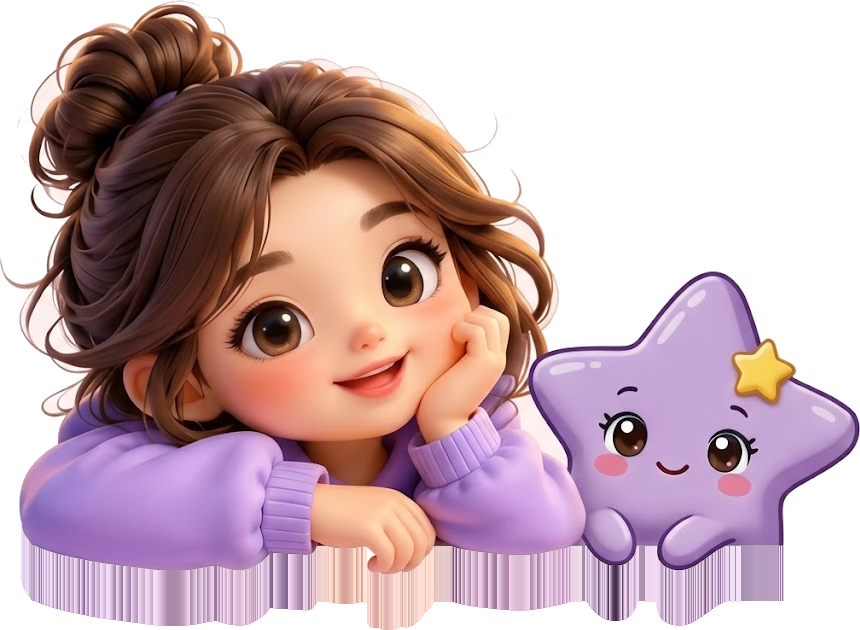
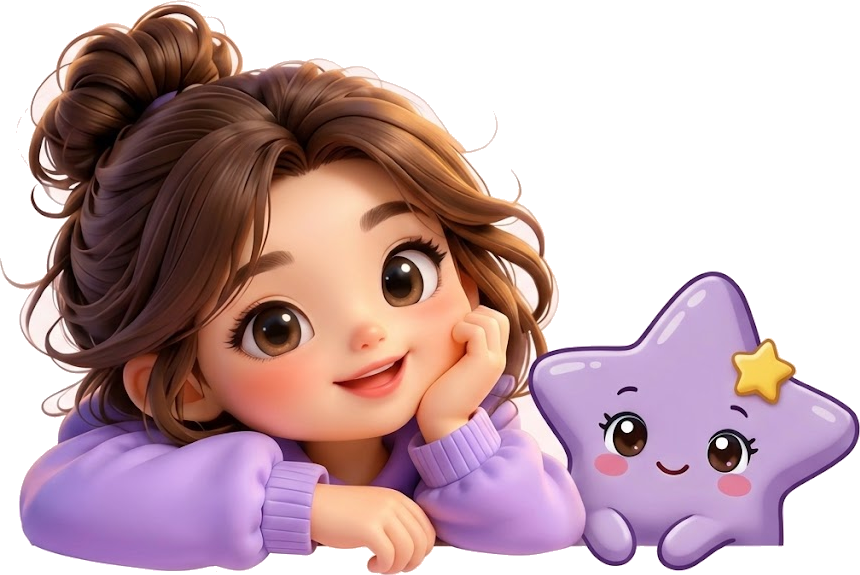
feat(v1.56.0): correccion definitiva de apoyo en login sin artefactos y ajuste de lomo de panel

diff --git a/src/index.css b/src/index.css
@@ -624,17 +624,17 @@ body[data-color-theme="zen"] {
 .characters-stage {
   position: relative;
   width: 100%;
-  height: 215px;
+  height: 200px;
   display: flex;
   justify-content: center;
   align-items: flex-end;
-  margin-top: 0;
+  margin-top: 2px;
   z-index: 3;
 }
 
 .characters-stage img {
-  width: 98%;
-  max-width: 365px;
+  width: auto;
+  max-width: 92%;
   height: 100%;
   object-fit: contain;
   object-position: center bottom;
@@ -644,11 +644,11 @@ body[data-color-theme="zen"] {
 
 .form-panel {
   background: linear-gradient(180deg, #fdf3f4 0%, #f5e4e8 100%);
-  border-radius: 34px;
+  border-radius: 32px;
   padding: 18px 22px 18px;
   position: relative;
   z-index: 4;
-  margin-top: -26px;
+  margin-top: -18px;
   box-shadow: 
     0 -6px 14px rgba(120, 85, 150, 0.10),
     inset 0 5px 8px rgba(255, 255, 255, 0.95),

diff --git a/HISTORIAL_DE_CAMBIOS.md b/HISTORIAL_DE_CAMBIOS.md
@@ -17,6 +17,14 @@ Cualquier funcionalidad registrada aquí está blindada: ninguna IA puede elimin
 
 ## 📦 REGISTRO DE ENTREGAS Y MÓDULOS
 
+### Versión 1.56.0 - Corrección Definitiva de Apoyo en Login: Eliminación de Líneas y Calibración
+- [x] **Regeneración de PNG Limpio Sin Extrusión ([`login-3d-girl-star.png`](file:///c:/Users/User/Desktop/GeoSoft/CUENTA%20ANDERSJIVAL/CLIENTES%20WEBS/BYFIO/public/assets/login-3d-girl-star.png)):**
+  - Eliminadas las líneas verticales/artefactos inferiores generados por el pixel-stretching anterior.
+  - Recorte exacto y limpio sobre el borde real de los personajes (860 x 575 px) con canal alfa 100% transparente en todo el contorno.
+- [x] **Alineación Continua Sobre el Panel Acolchado ([`src/index.css`](file:///c:/Users/User/Desktop/GeoSoft/CUENTA%20ANDERSJIVAL/CLIENTES%20WEBS/BYFIO/src/index.css)):**
+  - Calibrado `.characters-stage` a 200px de alto (`width: auto; max-width: 92%`), ubicando los codos de la niña y el cuerpo de la estrella enteramente dentro del tramo horizontal del panel.
+  - Solapamiento de `.form-panel` ajustado a `margin-top: -18px` y radio a 32px, permitiendo que la parte inferior de los personajes quede suavemente oculta tras el lomo del formulario, luciendo 100% apoyados de forma natural y sin cortes.
+
 ### Versión 1.55.0 - Switches de Activación de Sonido en Panel de Administración
 - [x] **Gestión Centralizada de Audio ([`AppContext.tsx`](file:///c:/Users/User/Desktop/GeoSoft/CUENTA%20ANDERSJIVAL/CLIENTES%20WEBS/BYFIO/src/context/AppContext.tsx) y [`soundEffects.ts`](file:///c:/Users/User/Desktop/GeoSoft/CUENTA%20ANDERSJIVAL/CLIENTES%20WEBS/BYFIO/src/utils/soundEffects.ts)):**
   - Añadidos estados reactivos persistentes (`soundBubbleEnabled` y `soundButtonsEnabled`) con respaldo en `localStorage`.
